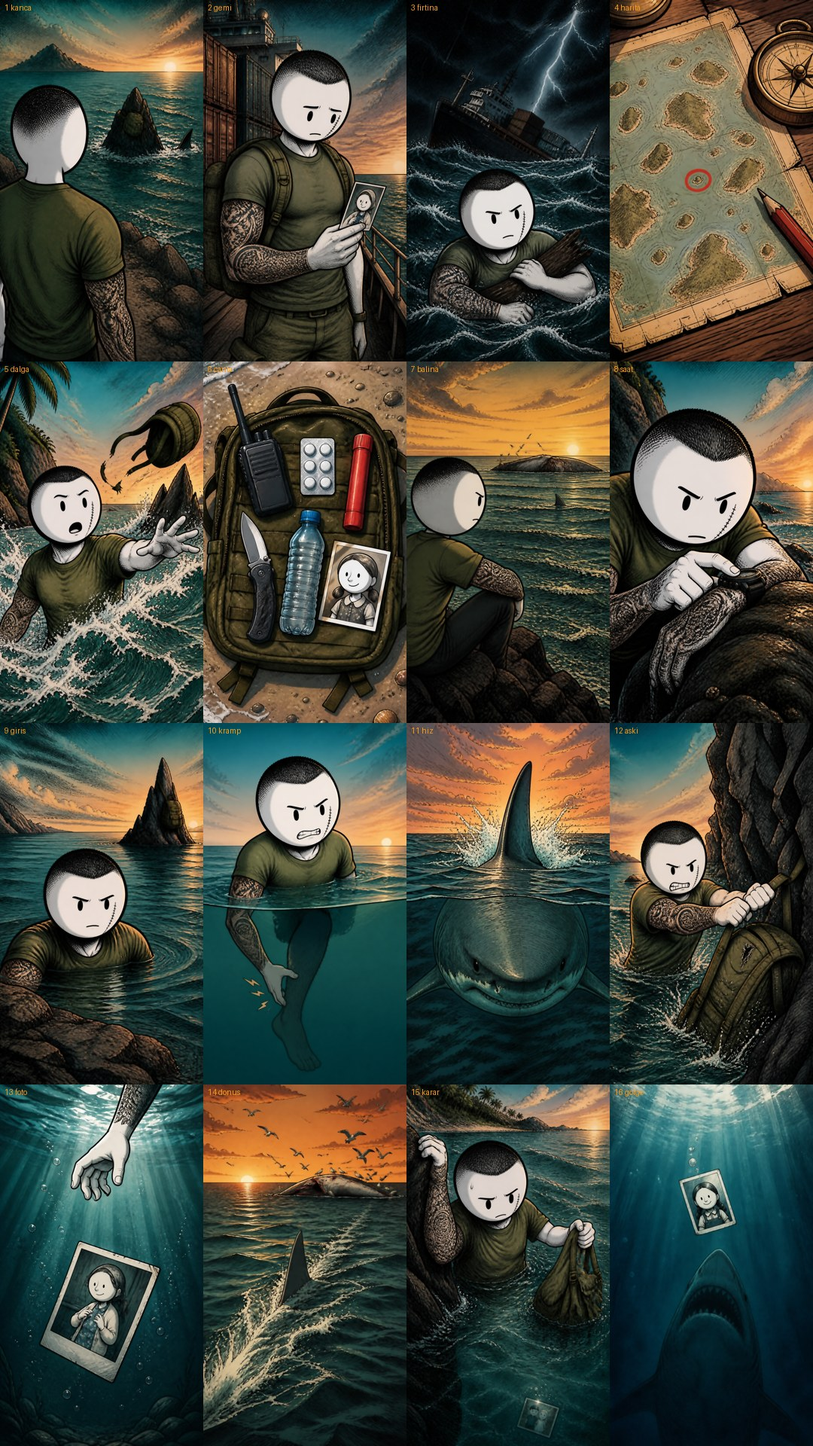
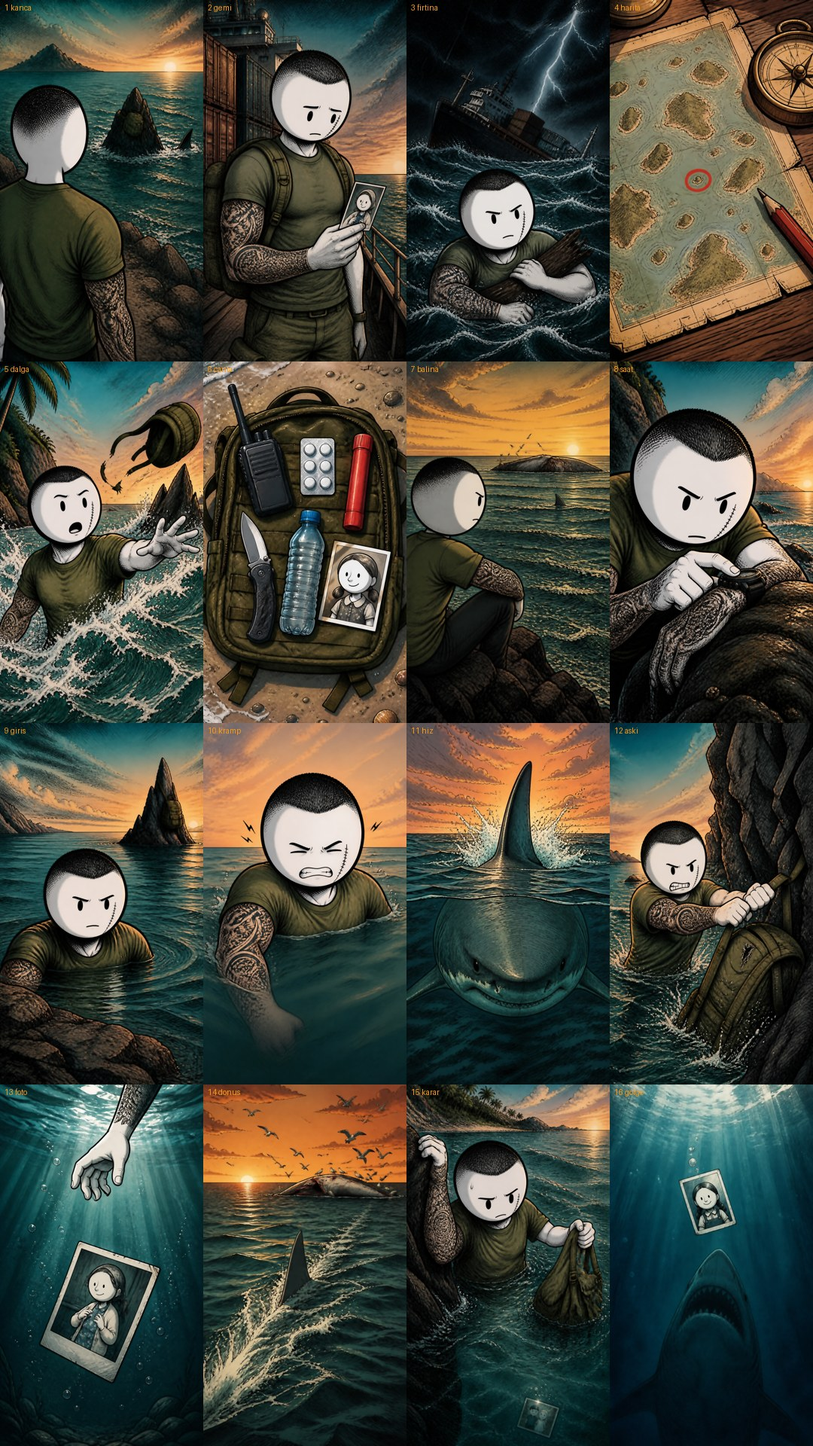
ADA 9 b1: kramp sahnesi bacak göstermeden yeniden
Claude-Session: https://claude.ai/code/session_014JxJGDekTQeiZJynemFY6T

Changed region(s): [[0.2444, 0.5, 0.5194, 0.75]]

diff --git a/public/episodes/ada9-b1-dort-dakika/build.py b/public/episodes/ada9-b1-dort-dakika/build.py
@@ -69,7 +69,7 @@ shot("giris", "Kronometreye basıp sessizce suya giriyorsun.", timer=240, loc="0
 
 # 4) BİRİNCİ SORUN — gerçek bir kuraldan doğar
 shot("kramp", "Birinci sorun.", timer=150, sfx=TIN, hud={"mesafe": "25 m", "nabiz": 168}, motion="zoomIn", focus=[0.5, 0.25], tone="dramatic")
-shot("kramp", "Bacağına kramp giriyor.", fx=[{"type": "flash"}], motion="shake", focus=[0.45, 0.7], tone="tense")
+shot("kramp", "Bacağına kramp giriyor.", fx=[{"type": "flash"}], motion="shake", focus=[0.5, 0.35], tone="tense")
 shot("hiz", "Ve büyük beyaz, kısa bir atakta saatte otuz beş kilometreyi geçer.", "Ve büyük beyaz, kısa bir atakta saatte 35 kilometreyi geçer.", timer=135,
      card={"type": "fact", "title": "GERÇEK KURAL", "text": "Büyük beyaz köpekbalığı kısa ataklarda saatte 35 km'yi aşan hızlara çıkabilir.", "from": 0.3},
      motion="push", focus=[0.5, 0.45], tone="dramatic")
